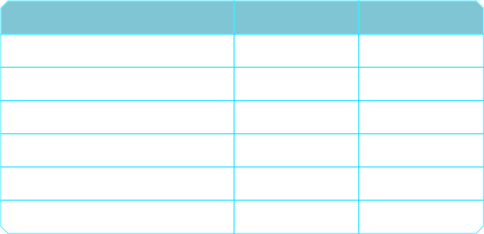
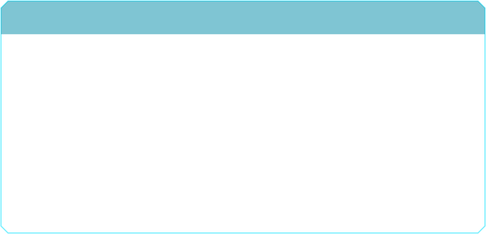
trend table animate

Changed region(s): [[0.0, 0.0, 1.0, 1.0]]

diff --git a/src/views/screen2/components/Trend.vue b/src/views/screen2/components/Trend.vue
@@ -10,8 +10,8 @@
     </div>
     <div class="trend card children-trend">
       <div class="title">儿童动态</div>
-      <div class="content">
-        <table class="trend-table">
+      <div class="content" @mouseleave="startAnimate" @mouseenter="stopAnimate">
+        <table class="trend-table" id="trendTable">
           <thead>
             <tr>
               <th>科区</th>
@@ -20,7 +20,11 @@
             </tr>
           </thead>
           <tbody>
-            <tr v-for="(data, index) in trendData" :key="index">
+            <tr
+              class="trend-item"
+              v-for="(data, index) in trendData"
+              :key="index"
+            >
               <td>{{ data.area }}</td>
               <td>{{ data.count }}</td>
               <td>{{ data.trend }}</td>
@@ -33,11 +37,50 @@
 </template>
 <script setup lang="ts">
 import ECharts from "@/components/e-charts.vue";
+import { onMounted, onUnmounted, ref } from "vue";
 
 defineProps<{
   option: object;
   trendData: { area: string; count: number; trend: string }[];
 }>();
+
+const scrollTable = () => {
+  const table = document.getElementById("trendTable");
+  const tableHeight = table.offsetHeight - 34;
+
+  const tableBody = table.getElementsByTagName("tbody")[0];
+  const scrollHeight = tableBody.scrollHeight;
+  const scrollTop = tableBody.scrollTop;
+
+  if (tableHeight < scrollHeight) {
+    const firstTr = tableBody.getElementsByTagName("tr")[0];
+    tableBody.scrollTop += 1;
+    if (scrollTop > firstTr.offsetHeight) {
+      tableBody.removeChild(firstTr);
+      tableBody.appendChild(firstTr);
+    }
+  }
+};
+
+const intervalId = ref();
+onMounted(() => {
+  intervalId.value = setInterval(scrollTable, 50);
+});
+onUnmounted(() => {
+  clearInterval(intervalId.value);
+  intervalId.value = null;
+});
+const stopAnimate = () => {
+  console.log("stopAnimate");
+
+  clearInterval(intervalId.value);
+  intervalId.value = null;
+};
+const startAnimate = () => {
+  console.log("startAnimate");
+
+  intervalId.value = setInterval(scrollTable, 50);
+};
 </script>
 
 <style lang="scss" scoped>
@@ -64,13 +107,26 @@ defineProps<{
   margin-top: 14px;
   .trend-table {
     background-image: url("@/assets/children_trend_table.png");
-    width: 484px;
-    height: 234px;
+    width: 485px;
+    height: 233px;
     font-size: 17px;
     color: #25ebfe;
     text-align: left;
+    border-collapse: collapse;
+    border-radius: 12px;
+    overflow: hidden;
     thead {
-      height: 32px;
+      display: block;
+      height: 34px;
+      line-height: 34px;
+    }
+    tbody {
+      display: block;
+      height: 200px;
+      overflow-y: hidden;
+      .trend-item {
+        height: 30px;
+      }
     }
     th,
     td {
@@ -80,8 +136,14 @@ defineProps<{
         width: 232px;
       }
       &:nth-child(2) {
-        width: 124px;
+        width: 126px;
       }
+      &:nth-child(3) {
+        width: 126px;
+      }
+    }
+    td {
+      border: 1px solid #008ba8;
     }
   }
 }

diff --git a/src/views/screen2/index.vue b/src/views/screen2/index.vue
@@ -337,6 +337,26 @@ const trendData = [
     count: 3,
     trend: "融合",
   },
+  {
+    area: "养护七区",
+    count: 13,
+    trend: "融合",
+  },
+  {
+    area: "养护八区",
+    count: 14,
+    trend: "融合",
+  },
+  {
+    area: "养护九区",
+    count: 13,
+    trend: "融合",
+  },
+  {
+    area: "养护十区",
+    count: 14,
+    trend: "融合",
+  },
 ];
 
 const option1 = {
